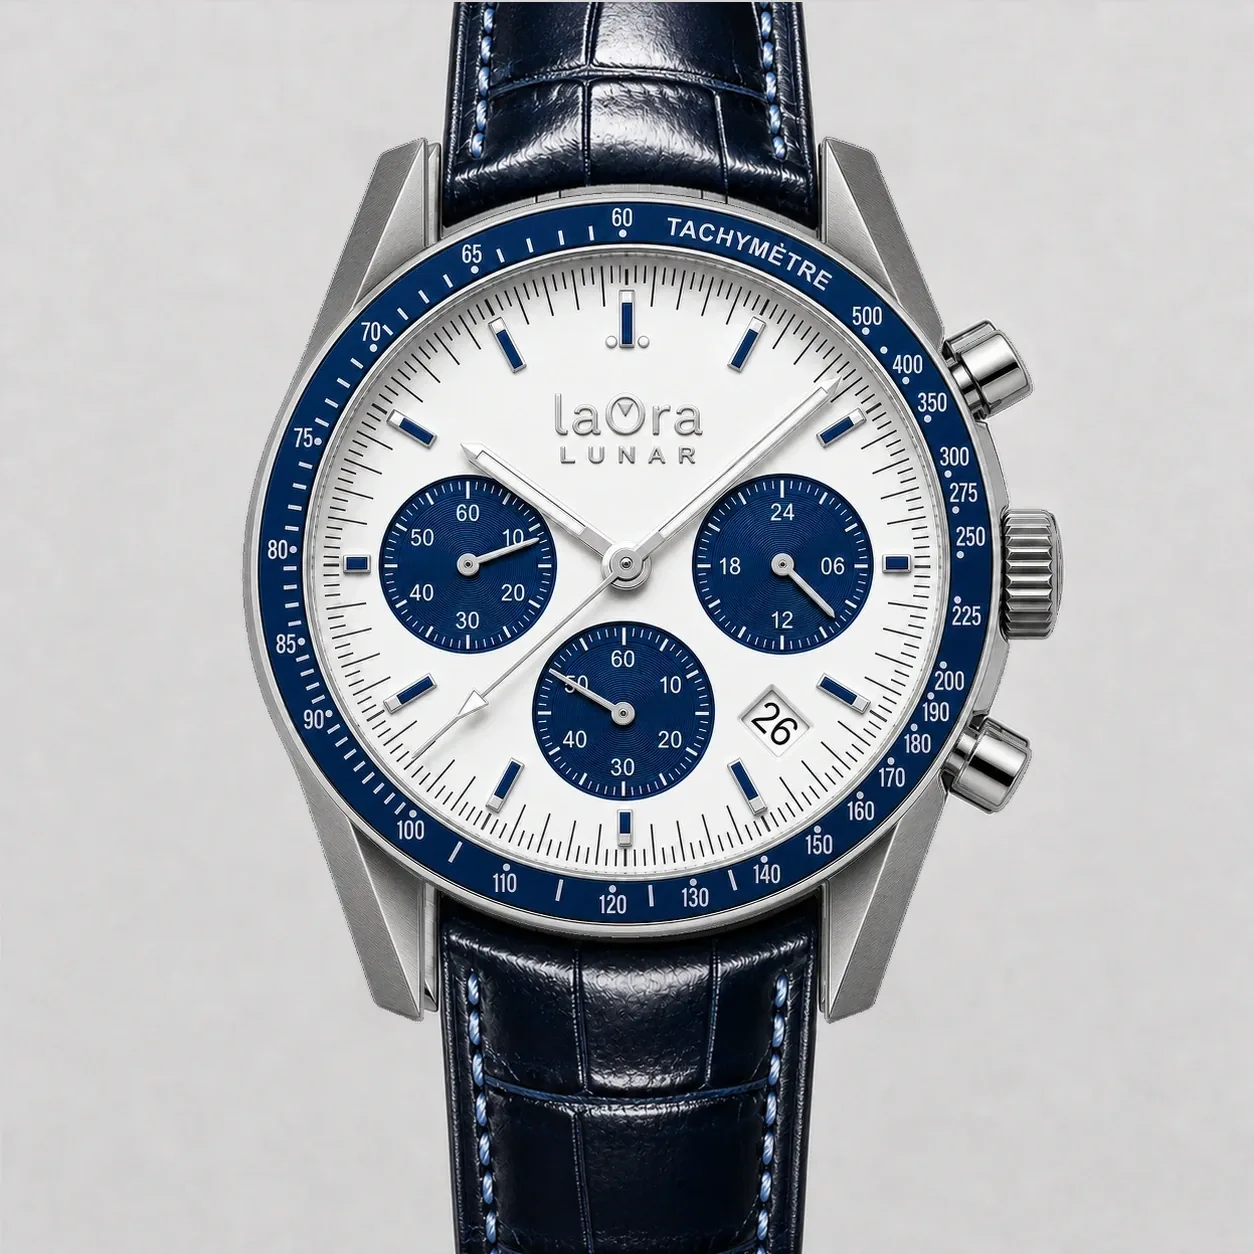
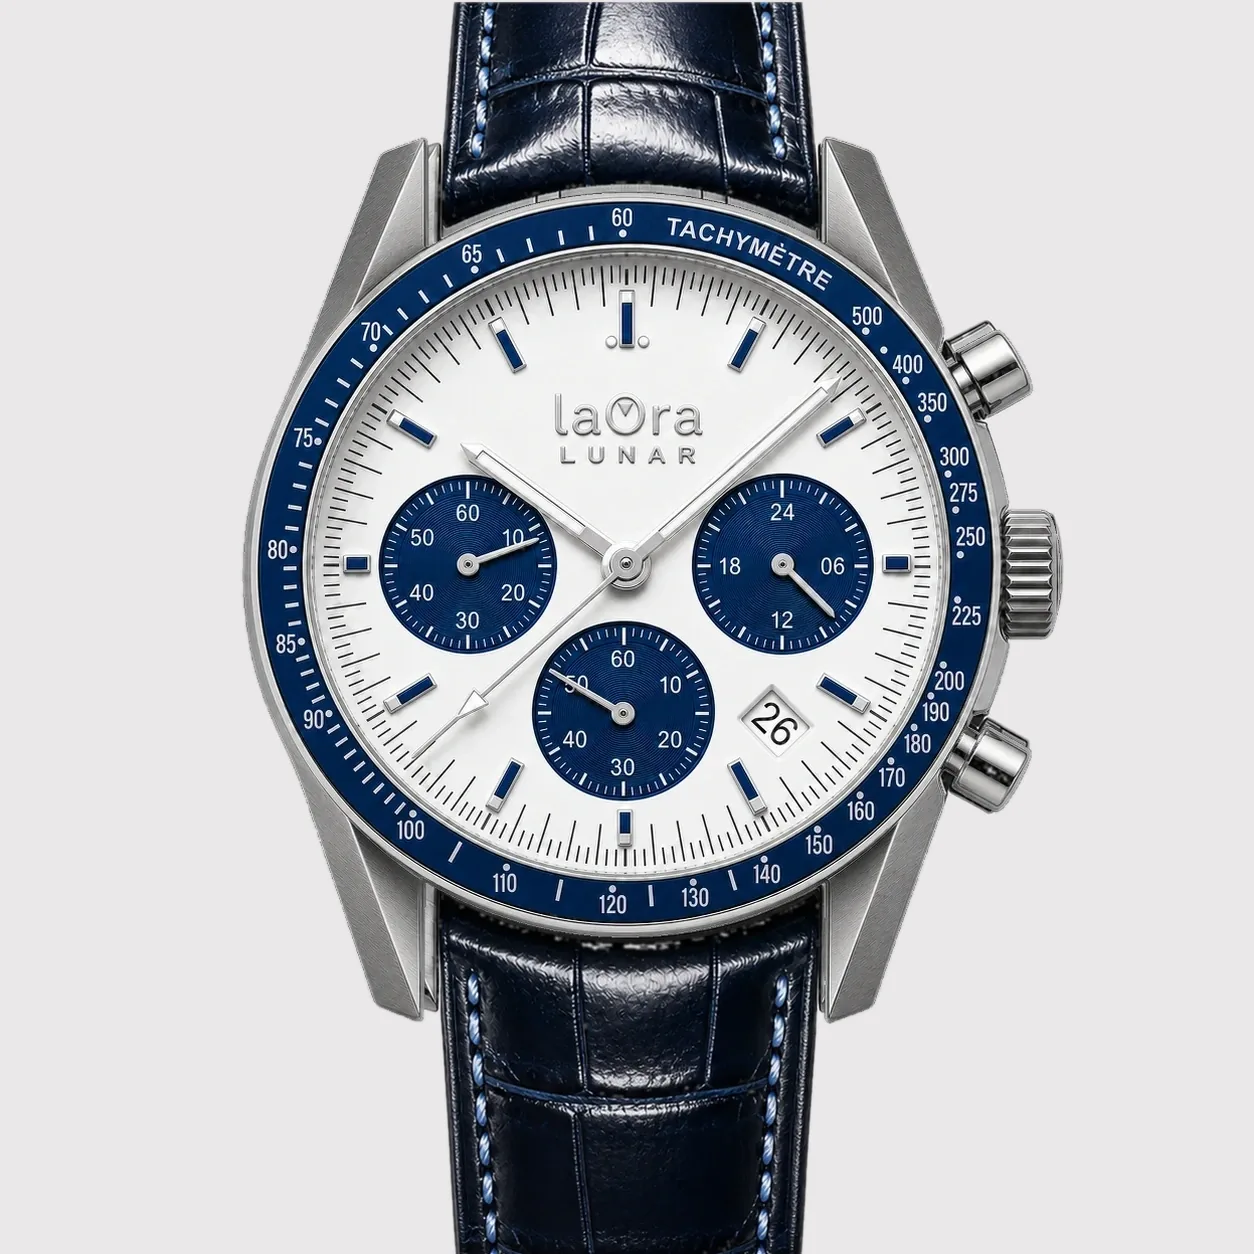
Colección: las tarjetas del Lunar, con tres datos, plazos y más cerca
Tres cambios que pidió Óscar el 21/08/2026 y un descuido mío.

El cristal fuera: se quedan tres datos por tarjeta —movimiento, caja y
correa—, que es la lista del Trinchera menos la línea del cristal.

Los plazos volvían a faltar. No es que no existieran: al rehacer las
cuatro tarjetas ayer me dejé la línea, que el resto de modelos sí
tienen. Ya están las cuatro: 63,30 · 76,64 · 86,64 · 89,97 €.

El fondo: dos de las fotos venían del estudio con un gris más oscuro
—214 contra los 234 de las demás—, y dentro de la tarjeta se veía el
cuadro, un fondo encima de otro. Se han rehecho aislando el fondo por
inundación desde las esquinas y pintándolo del #EAE8E8 exacto de la
tarjeta. Las cuatro miden ya 233-234 de esquina a esquina.

Y el zoom: las fotos del Lunar salen de las capas del configurador,
donde el reloj ocupa mucho menos cuadro que en el resto, así que la
tarjeta lo enseñaba pequeño. Zoom propio del 24 %, solo para el Lunar.
De paso, el chip necesitaba z-index: el zoom crea contexto de apilado
y la foto se lo comía.

diff --git a/coleccion.html b/coleccion.html
@@ -26,7 +26,7 @@
 <!-- `cabecera.css`: dentro está `.cb-marca`, el logotipo dibujado con
      la O como círculo. Sin él se lee «lara». -->
 <link rel="stylesheet" href="/assets/css/cabecera.css?v=15">
-<link rel="stylesheet" href="/assets/css/coleccion-v2.css?v=33">
+<link rel="stylesheet" href="/assets/css/coleccion-v2.css?v=35">
 </head>
 <body><header class="site-header">
   <a class="brand" href="/" aria-label="laOra, inicio"><span class="brand-logo"><img src="/assets/img/lunar-v2/laora-wordmark-dark.png?v=2" alt="laOra"></span><span class="brand-claim">Relojazos al precio honesto</span></a>
@@ -309,22 +309,21 @@
       <article class="cv2-tarjeta cv2-t2">
         <div class="cv2-foto">
           <span class="cv2-chip">Acero/Nato</span>
-          <img src="/assets/img/lunar-config/tarjetas/nato-beige.webp?v=1" alt="Lunar de acero con bisel negro, esfera negra y nato de espiga beige" loading="lazy">
+          <img src="/assets/img/lunar-config/tarjetas/nato-beige.webp?v=2" alt="Lunar de acero con bisel negro, esfera negra y nato de espiga beige" loading="lazy">
         </div>
         <div class="cv2-cuerpo">
           <div class="cv2-quieto">
             <ul class="cv2-lista">
               <li>Mecacuarzo Japonés</li>
               <li>Ø 39,7 mm Acero 316L, Bisel Negro</li>
-              <li>Esfera negra, agujas plateadas</li>
               <li>Nato de espiga beige</li>
-              <li>Cristal mineral | 10 ATM</li>
               <li class="cv2-precio-lista">189,90 €</li>
+              <li class="cv2-plazos">ó 3 plazos de 63,30 €</li>
             </ul>
           </div>
           <div class="cv2-encima">
             <div class="cv2-minis2" aria-label="Otros acabados"><button type="button" data-mini="/assets/img/lunar-config/straps/nato-espiga-antracita.webp?v=1"><img src="/assets/img/lunar-config/straps/nato-espiga-antracita.webp?v=1" alt="" loading="lazy"></button><button type="button" data-mini="/assets/img/lunar-config/straps/nato-pasadores-verde-militar.webp?v=1"><img src="/assets/img/lunar-config/straps/nato-pasadores-verde-militar.webp?v=1" alt="" loading="lazy"></button><button type="button" data-mini="/assets/img/lunar-config/straps/nato-espiga-marron.webp?v=1"><img src="/assets/img/lunar-config/straps/nato-espiga-marron.webp?v=1" alt="" loading="lazy"></button><a href="/lunar.html">+1.900</a></div>
-            <button class="cv2-comprar" type="button" data-anadir='{"ref": "LO-03-acero-bnegro-negra-plateadas-nato-beige", "nombre": "Lunar Negra", "detalle": "Acero · bisel negro · esfera negra · agujas plateadas · Mecacuarzo Japonés", "correa": "Nato espiga beige", "precio": 189.9, "foto": "/assets/img/lunar-config/tarjetas/nato-beige.webp?v=1"}'>Añadir al carrito</button>
+            <button class="cv2-comprar" type="button" data-anadir='{"ref": "LO-03-acero-bnegro-negra-plateadas-nato-beige", "nombre": "Lunar Negra", "detalle": "Acero · bisel negro · esfera negra · agujas plateadas · Mecacuarzo Japonés", "correa": "Nato espiga beige", "precio": 189.9, "foto": "/assets/img/lunar-config/tarjetas/nato-beige.webp?v=2"}'>Añadir al carrito</button>
           </div>
         </div>
       </article>
@@ -339,14 +338,13 @@
             <ul class="cv2-lista">
               <li>Mecacuarzo Japonés</li>
               <li>Ø 39,7 mm Acero 316L, Bisel Negro</li>
-              <li>Esfera negra, agujas plateadas</li>
               <li>Brazalete acero 316L de cinco columnas</li>
-              <li>Cristal mineral | 10 ATM</li>
               <li class="cv2-precio-lista">229,90 €</li>
+              <li class="cv2-plazos">ó 3 plazos de 76,64 €</li>
             </ul>
           </div>
           <div class="cv2-encima">
-            <div class="cv2-minis2" aria-label="Otros acabados"><button type="button" data-mini="/assets/img/lunar-config/straps/piel-italiana-negra.webp?v=3"><img src="/assets/img/lunar-config/straps/piel-italiana-negra.webp?v=3" alt="" loading="lazy"></button><button type="button" data-mini="/assets/img/lunar-config/straps/caucho-negro-naranja.webp?v=1"><img src="/assets/img/lunar-config/straps/caucho-negro-naranja.webp?v=1" alt="" loading="lazy"></button><button type="button" data-mini="/assets/img/lunar-config/tarjetas/nato-beige.webp?v=1"><img src="/assets/img/lunar-config/tarjetas/nato-beige.webp?v=1" alt="" loading="lazy"></button><a href="/lunar.html">+1.900</a></div>
+            <div class="cv2-minis2" aria-label="Otros acabados"><button type="button" data-mini="/assets/img/lunar-config/straps/piel-italiana-negra.webp?v=3"><img src="/assets/img/lunar-config/straps/piel-italiana-negra.webp?v=3" alt="" loading="lazy"></button><button type="button" data-mini="/assets/img/lunar-config/straps/caucho-negro-naranja.webp?v=1"><img src="/assets/img/lunar-config/straps/caucho-negro-naranja.webp?v=1" alt="" loading="lazy"></button><button type="button" data-mini="/assets/img/lunar-config/tarjetas/nato-beige.webp?v=2"><img src="/assets/img/lunar-config/tarjetas/nato-beige.webp?v=2" alt="" loading="lazy"></button><a href="/lunar.html">+1.900</a></div>
             <button class="cv2-comprar" type="button" data-anadir='{"ref": "LO-03-acero-bnegro-negra-plateadas-brazalete-acero", "nombre": "Lunar Negra", "detalle": "Acero · bisel negro · esfera negra · agujas plateadas · Mecacuarzo Japonés", "correa": "Brazalete acero 316L", "precio": 229.9, "foto": "/assets/img/lunar-config/straps/brazalete-acero-316l-cinco-columnas.webp?v=12"}'>Añadir al carrito</button>
           </div>
         </div>
@@ -355,22 +353,21 @@
       <article class="cv2-tarjeta cv2-t2">
         <div class="cv2-foto">
           <span class="cv2-chip">Bisel Azul/Piel Italiana</span>
-          <img src="/assets/img/lunar-config/tarjetas/bazul-italiana-azul.webp?v=1" alt="Lunar de acero con bisel azul, esfera blanca y azul y correa de piel italiana azul" loading="lazy">
+          <img src="/assets/img/lunar-config/tarjetas/bazul-italiana-azul.webp?v=2" alt="Lunar de acero con bisel azul, esfera blanca y azul y correa de piel italiana azul" loading="lazy">
         </div>
         <div class="cv2-cuerpo">
           <div class="cv2-quieto">
             <ul class="cv2-lista">
               <li>Mecacuarzo Japonés</li>
               <li>Ø 39,7 mm Acero 316L, Bisel Azul</li>
-              <li>Esfera blanca y azul, agujas plateadas</li>
               <li>Piel italiana azul, pespunte de contraste</li>
-              <li>Cristal mineral | 10 ATM</li>
               <li class="cv2-precio-lista">259,90 €</li>
+              <li class="cv2-plazos">ó 3 plazos de 86,64 €</li>
             </ul>
           </div>
           <div class="cv2-encima">
             <div class="cv2-minis2" aria-label="Otros acabados"><a href="/lunar.html">+1.900</a></div>
-            <button class="cv2-comprar" type="button" data-anadir='{"ref": "LO-03-acero-bazul-blanca-azul-plateadas-italiana-azul-contraste", "nombre": "Lunar Blanca y azul", "detalle": "Acero · bisel azul · esfera blanca y azul · agujas plateadas · Mecacuarzo Japonés", "correa": "Piel italiana azul, pespunte de contraste", "precio": 259.9, "foto": "/assets/img/lunar-config/tarjetas/bazul-italiana-azul.webp?v=1"}'>Añadir al carrito</button>
+            <button class="cv2-comprar" type="button" data-anadir='{"ref": "LO-03-acero-bazul-blanca-azul-plateadas-italiana-azul-contraste", "nombre": "Lunar Blanca y azul", "detalle": "Acero · bisel azul · esfera blanca y azul · agujas plateadas · Mecacuarzo Japonés", "correa": "Piel italiana azul, pespunte de contraste", "precio": 259.9, "foto": "/assets/img/lunar-config/tarjetas/bazul-italiana-azul.webp?v=2"}'>Añadir al carrito</button>
           </div>
         </div>
       </article>
@@ -378,22 +375,21 @@
       <article class="cv2-tarjeta cv2-t2">
         <div class="cv2-foto">
           <span class="cv2-chip">PVD/Brazalete PVD</span>
-          <img src="/assets/img/lunar-config/tarjetas/pvd-negra-naranjas.webp?v=1" alt="Lunar de acero negro PVD con esfera negra, agujas naranjas y brazalete negro PVD" loading="lazy">
+          <img src="/assets/img/lunar-config/tarjetas/pvd-negra-naranjas.webp?v=2" alt="Lunar de acero negro PVD con esfera negra, agujas naranjas y brazalete negro PVD" loading="lazy">
         </div>
         <div class="cv2-cuerpo">
           <div class="cv2-quieto">
             <ul class="cv2-lista">
               <li>Mecacuarzo Japonés</li>
               <li>Ø 39,7 mm Acero Negro PVD, Bisel Negro</li>
-              <li>Esfera negra, agujas naranjas</li>
               <li>Brazalete acero negro PVD</li>
-              <li>Cristal mineral | 10 ATM</li>
               <li class="cv2-precio-lista">269,90 €</li>
+              <li class="cv2-plazos">ó 3 plazos de 89,97 €</li>
             </ul>
           </div>
           <div class="cv2-encima">
             <div class="cv2-minis2" aria-label="Otros acabados"><a href="/lunar.html">+1.900</a></div>
-            <button class="cv2-comprar" type="button" data-anadir='{"ref": "LO-03-negra-bnegro-negra-naranjas-brazalete-negro", "nombre": "Lunar Negra", "detalle": "Acero negro PVD · bisel negro · esfera negra · agujas naranjas · Mecacuarzo Japonés", "correa": "Brazalete negro pvd", "precio": 269.9, "foto": "/assets/img/lunar-config/tarjetas/pvd-negra-naranjas.webp?v=1"}'>Añadir al carrito</button>
+            <button class="cv2-comprar" type="button" data-anadir='{"ref": "LO-03-negra-bnegro-negra-naranjas-brazalete-negro", "nombre": "Lunar Negra", "detalle": "Acero negro PVD · bisel negro · esfera negra · agujas naranjas · Mecacuarzo Japonés", "correa": "Brazalete negro pvd", "precio": 269.9, "foto": "/assets/img/lunar-config/tarjetas/pvd-negra-naranjas.webp?v=2"}'>Añadir al carrito</button>
           </div>
         </div>
       </article>

diff --git a/assets/css/coleccion-v2.css b/assets/css/coleccion-v2.css
@@ -327,8 +327,17 @@
 .cv2-foto img{
   width:78%;height:92%;object-fit:contain;display:block;
 }
+/* EL LUNAR, MÁS CERCA (Óscar, 21/08/2026). Sus fotos vienen de las capas
+   del configurador, donde el reloj ocupa bastante menos cuadro que en el
+   resto de modelos: dentro de la tarjeta salía pequeño. Se le da aire
+   con un zoom propio; la tarjeta ya recorta lo que sobra. */
+#lunar .cv2-foto img{
+  width:100%;height:100%;object-fit:cover;transform:scale(1.24);
+}
+/* z-index: el zoom del Lunar crea contexto de apilado y la foto se comía
+   el chip, que va antes en el HTML. */
 .cv2-foto .cv2-chip{
-  position:absolute;top:12px;left:12px;margin:0;font-size:12px;
+  position:absolute;top:12px;left:12px;margin:0;font-size:12px;z-index:2;
 }
 .cv2-cuerpo{
   padding:18px 18px 20px;display:flex;flex-direction:column;

diff --git a/coctel.html b/coctel.html
@@ -15,7 +15,7 @@
 <link href="https://fonts.googleapis.com/css2?family=Inter:wght@400;500;600&display=swap" rel="stylesheet">
 <link rel="stylesheet" href="/assets/css/cabecera-laora.css?v=3">
 <link rel="stylesheet" href="/assets/css/laora.css?v=51">
-<link rel="stylesheet" href="/assets/css/coleccion-v2.css?v=33">
+<link rel="stylesheet" href="/assets/css/coleccion-v2.css?v=35">
 <link rel="stylesheet" href="/assets/css/producto-2026.css?v=40">
 </head>
 <body><header class="site-header">

diff --git a/diver.html b/diver.html
@@ -15,7 +15,7 @@
 <link href="https://fonts.googleapis.com/css2?family=Inter:wght@400;500;600&display=swap" rel="stylesheet">
 <link rel="stylesheet" href="/assets/css/cabecera-laora.css?v=3">
 <link rel="stylesheet" href="/assets/css/laora.css?v=51">
-<link rel="stylesheet" href="/assets/css/coleccion-v2.css?v=33">
+<link rel="stylesheet" href="/assets/css/coleccion-v2.css?v=35">
 <link rel="stylesheet" href="/assets/css/producto-2026.css?v=40">
 </head>
 <body><header class="site-header">

diff --git a/tortuga.html b/tortuga.html
@@ -15,7 +15,7 @@
 <link href="https://fonts.googleapis.com/css2?family=Inter:wght@400;500;600&display=swap" rel="stylesheet">
 <link rel="stylesheet" href="/assets/css/cabecera-laora.css?v=3">
 <link rel="stylesheet" href="/assets/css/laora.css?v=51">
-<link rel="stylesheet" href="/assets/css/coleccion-v2.css?v=33">
+<link rel="stylesheet" href="/assets/css/coleccion-v2.css?v=35">
 <link rel="stylesheet" href="/assets/css/producto-2026.css?v=40">
 </head>
 <body><header class="site-header">

diff --git a/lunar.html b/lunar.html
@@ -29,7 +29,7 @@
 <link rel="stylesheet" href="/assets/css/laora.css?v=51">
 <link rel="stylesheet" href="/assets/css/cabecera-laora.css?v=3">
 <link rel="stylesheet" href="/assets/css/cabecera.css?v=15">
-<link rel="stylesheet" href="/assets/css/coleccion-v2.css?v=33">
+<link rel="stylesheet" href="/assets/css/coleccion-v2.css?v=35">
 <link rel="stylesheet" href="/assets/css/producto-2026.css?v=40">
 <style>
   /* El hero deja de ser una foto y pasa a ser el configurador: dos capas

diff --git a/bitacora.html b/bitacora.html
@@ -27,7 +27,7 @@
 <link rel="stylesheet" href="/assets/css/laora.css?v=51">
 <link rel="stylesheet" href="/assets/css/cabecera-laora.css?v=3">
 <link rel="stylesheet" href="/assets/css/cabecera.css?v=15">
-<link rel="stylesheet" href="/assets/css/coleccion-v2.css?v=33">
+<link rel="stylesheet" href="/assets/css/coleccion-v2.css?v=35">
 <link rel="stylesheet" href="/assets/css/producto-2026.css?v=40">
 <style>
   /* Las fotos del Bitácora vienen sobre blanco puro de estudio: el

diff --git a/precisa.html b/precisa.html
@@ -26,7 +26,7 @@
 <link rel="stylesheet" href="/assets/css/laora.css?v=51">
 <link rel="stylesheet" href="/assets/css/cabecera-laora.css?v=3">
 <link rel="stylesheet" href="/assets/css/cabecera.css?v=15">
-<link rel="stylesheet" href="/assets/css/coleccion-v2.css?v=33">
+<link rel="stylesheet" href="/assets/css/coleccion-v2.css?v=35">
 <link rel="stylesheet" href="/assets/css/producto-2026.css?v=40">
 </head>
 <body><header class="site-header">

diff --git a/trinchera.html b/trinchera.html
@@ -25,7 +25,7 @@
 <link rel="stylesheet" href="/assets/css/laora.css?v=51">
 <link rel="stylesheet" href="/assets/css/cabecera-laora.css?v=3">
 <link rel="stylesheet" href="/assets/css/cabecera.css?v=15">
-<link rel="stylesheet" href="/assets/css/coleccion-v2.css?v=33">
+<link rel="stylesheet" href="/assets/css/coleccion-v2.css?v=35">
 <link rel="stylesheet" href="/assets/css/producto-2026.css?v=40">
 </head>
 <body><header class="site-header">
